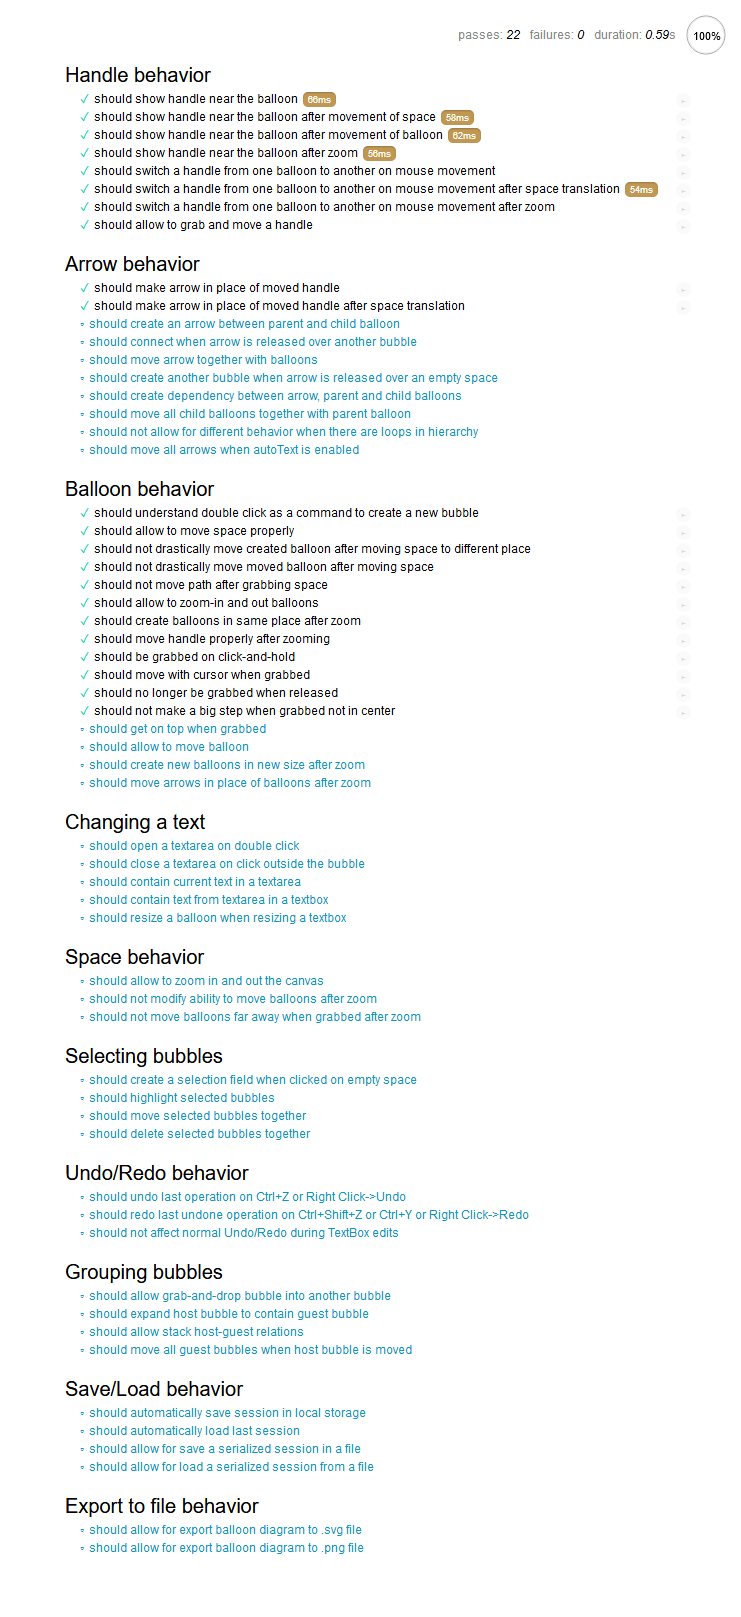
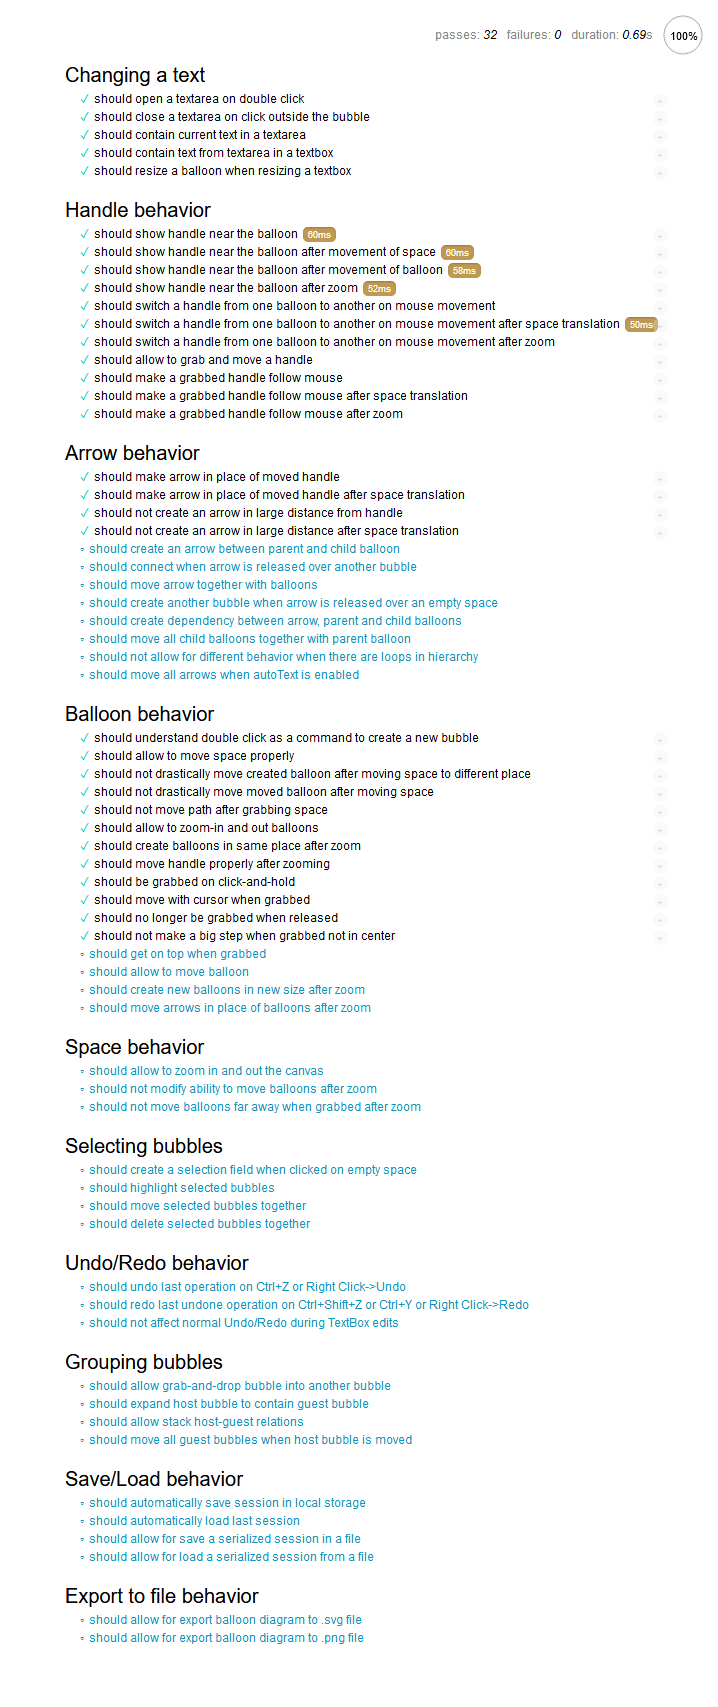
Added texbox tests

Changed region(s): [[0.0919, 0.0309, 0.9192, 0.9895], [0.7967, 0.0, 0.9805, 0.0309], [0.6128, 0.0, 0.766, 0.0309]]

diff --git a/test/test.js b/test/test.js
@@ -3,6 +3,63 @@ var [x0, y0] = [300, 250];
 let expect = chai.expect;
 Space.autoText = false;
 
+describe('Changing a text',
+    () => {
+        it('should open a textarea on double click',
+            () => {
+                Balloons.addBalloon(x0, y0);
+                (currentTextareaBalloon === null).should.be.equal(true);
+                var b = Balloons.getLast();
+                Mouse.doubleclick(x0, y0);
+                (currentTextareaBalloon === null).should.not.be.equal(true);
+                Space.clear();
+            });
+
+        it('should close a textarea on click outside the bubble',
+            () => {
+                Balloons.addBalloon(x0, y0);
+                (currentTextareaBalloon === null).should.be.equal(true);
+                var b = Balloons.getLast();
+                Mouse.doubleclick(x0, y0);
+                (currentTextareaBalloon === null).should.not.be.equal(true);
+                Mouse.click(x0 + 300, y0 + 300);
+                (currentTextareaBalloon === null).should.be.equal(true);
+                Space.clear();
+            });
+
+        it('should contain current text in a textarea',
+            () => {
+                Balloons.addBalloon(x0, y0);
+                Mouse.doubleclick(x0, y0);
+                var b = Balloons.getLast();
+                $('#tarea').text('abc');
+                Mouse.click(x0 + 300, y0 + 300);
+                ($($('.inner-text')[0]).text()).should.be.equal('abc');
+                Space.clear();
+            });
+
+        it('should contain text from textarea in a textbox',
+            () => {
+                Balloons.addBalloon(x0, y0);
+                ($($('.inner-text')[0]).text('abc'));
+                Mouse.doubleclick(x0, y0);
+                ($('#tarea').text()).should.be.equal('abc');
+                Space.clear();
+            });
+
+        it('should resize a balloon when resizing a textbox',
+            () => {
+                Balloons.addBalloon(x0, y0);
+                var b = Balloons.getLast();
+                var [w0, h0] = b.getAttrWH();
+                $('#tarea').text('abc');
+                b.onInput(b);
+                var [w1, h1] = b.getAttrWH();
+                w1.should.be.above(w0);
+                Space.clear();
+            });
+    });
+
 describe('Handle behavior',
     () => {
         function handlePos(x, y) {
@@ -225,10 +282,10 @@ describe('Handle behavior',
                 var h = Space.handle;
                 var [x, y] = h.getXY();
                 [x, y] = Space.svgToInternal(x, y);
-                var dx = 10;
+                var dx = 15;
                 Mouse.click(x + dx, y + dx);
                 Space.draggingHandle.should.be.equal(true);
-                var [xm, ym] = [x + 500, y + 500];
+                var [xm, ym] = [x + 300, y + 300];
                 Mouse.move(xm, ym);
                 [x, y] = h.getXY();
                 [x, y] = Space.svgToInternal(x, y);
@@ -624,19 +681,6 @@ describe('Balloon behavior',
         it('should create new balloons in new size after zoom');
 
         it('should move arrows in place of balloons after zoom');
-    });
-
-describe('Changing a text',
-    () => {
-        it('should open a textarea on double click');
-
-        it('should close a textarea on click outside the bubble');
-
-        it('should contain current text in a textarea');
-
-        it('should contain text from textarea in a textbox');
-
-        it('should resize a balloon when resizing a textbox');
     });
 
 describe('Space behavior',

diff --git a/scripts/textbox.js b/scripts/textbox.js
@@ -20,22 +20,21 @@ Balloon.prototype.openContent = function () {
     text.focus();
     text.select();
 
-    var balloon = this;
-
-    fO.oninput = function () {
+    Balloon.prototype.onInput = function (balloon) {
         var w = getTextLength(text);
         var width = w.x;
         var height = w.y;
-
         balloon.W0 = width;
         balloon.H0 = height;
-
-        div.attr('width', width);
-        div.attr('height', height);
-        fO.setAttribute('width', width);
-        fO.setAttribute('height', height);
+        balloon.div.attr('width', width);
+        balloon.div.attr('height', height);
+        balloon.fO.setAttribute('width', width);
+        balloon.fO.setAttribute('height', height);
         balloon.drop();
     }
+
+    var b = this;
+    fO.oninput = () => { Balloon.prototype.onInput(b); };
 }
 
 function getTextLength(text) {

diff --git a/scripts/space.js b/scripts/space.js
@@ -308,6 +308,7 @@ var Space = {
     },
 
     clear() {
+        currentTextareaBalloon = null;
         this.currentElement = null;
         this.handle = null;
         this.draggingBalloon = false;
